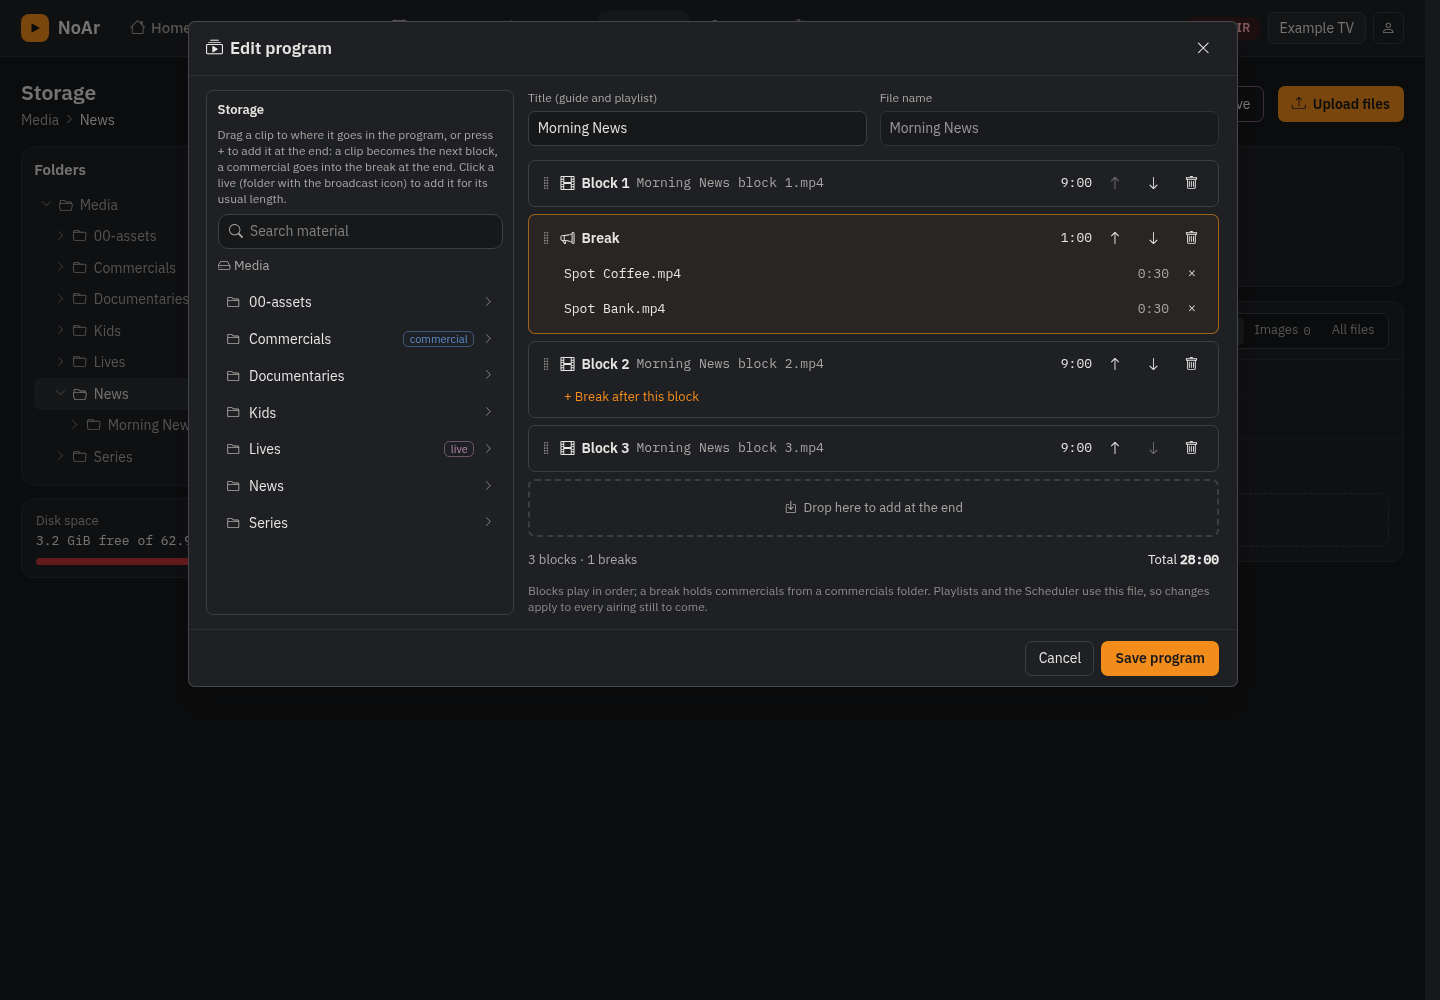
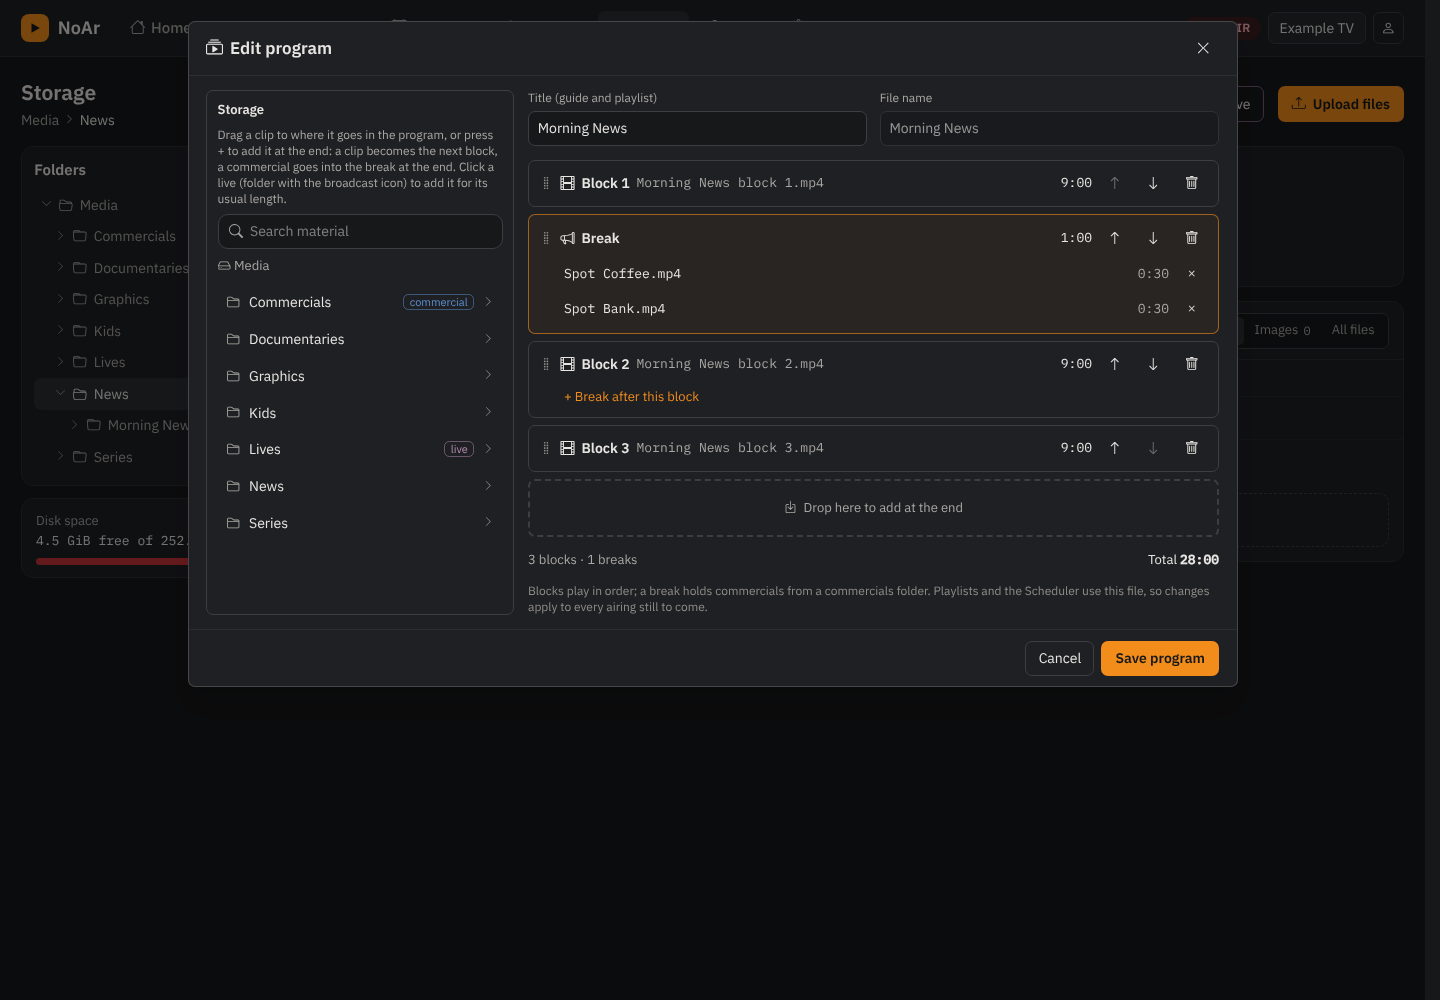
Refresh the README screenshots and screen descriptions
Recapture the 14 gallery screens from the current interface. The demo
keeps its logo in the Graphics folder and marks graphics cues in the
Oceans video, so the marks screenshot shows the cues drawn over the
player. The README describes the On air tabs, the Scheduler agenda,
the Composer tabs and colour picker, Duplicate, animated images and the
keyed commands.

Claude-Session: https://claude.ai/code/session_01TMowBAVNii8r8QQWjMJoUz

diff --git a/qa/screenshots/build_demo.py b/qa/screenshots/build_demo.py
@@ -141,7 +141,7 @@ def build_media(storage: Path) -> dict[str, float]:
         lengths[str(clip.relative_to(storage))] = 30.0
 
     shutil.rmtree(work)
-    assets = storage / "00-assets"
+    assets = storage / "Graphics"
     assets.mkdir(exist_ok=True)
     shutil.copy(ROOT / "assets" / "logo.png", assets / "logo.png")
 
@@ -150,18 +150,6 @@ def build_media(storage: Path) -> dict[str, float]:
     (live / "signal.live").write_text("srt://127.0.0.1:19890?streamid=read:city\n")
     card(live / "poster.jpg", "City Live", "Live", ("0x7b2cbf", "0xe0aaff"), "600x900")
 
-    # A trim, two breaks edited into the programme with the logo off during
-    # them, and two L-shape stretches.
-    (storage / "Documentaries/Oceans (2024)/Oceans.marks.json").write_text(
-        json.dumps(
-            {
-                "trim": {"from": 4.0, "to": 1796.0},
-                "hide": [{"from": 600.0, "to": 720.0}, {"from": 1320.0, "to": 1380.0}],
-                "breaks": [{"from": 600.0, "to": 720.0}, {"from": 1320.0, "to": 1380.0}],
-                "lshape": [{"from": 300.0, "to": 420.0}, {"from": 1020.0, "to": 1140.0}],
-            }
-        )
-    )
     return lengths
 
 
@@ -232,7 +220,7 @@ def graphics(api: Api) -> dict[str, int]:
     logo = next(item["template"] for item in api.call("GET", "/api/graphics/1/channel")
                 if item["kind"] == "logo")
     logo.update(name="Example TV logo", group="Channel", always_on=True)
-    logo["layers"][0].update(image="00-assets/logo.png", x=90, y=4, width=8, height=14.222222,
+    logo["layers"][0].update(image="Graphics/logo.png", x=90, y=4, width=8, height=14.222222,
                              opacity=0.9, animation_in="fade", animation_out="fade", animation_ms=400)
     api.call("PUT", f"/api/graphics/1/templates/{logo['id']}", logo)
     api.call("POST", f"/api/graphics/1/channel/{logo['id']}", {"on": True})
@@ -259,7 +247,7 @@ def graphics(api: Api) -> dict[str, int]:
     lower_third = model("Presenter", "Programmes", [
         layer("nameplate", "box", 5, 74, 75, 21, fill="#14213d", radius=1.2, shape="rounded"),
         layer("accent", "box", 5, 74, 1, 21, fill="#f28c18"),
-        layer("programme-image", "image", 7, 78, 8, 14, image="00-assets/logo.png"),
+        layer("programme-image", "image", 7, 78, 8, 14, image="Graphics/logo.png"),
         layer("presenter-name", "text", 18, 77, 59, 8, text="{name}", font_size=5.5, bold=True),
         layer("presenter-role", "text", 18, 86, 59, 6, text="{role}", font_size=3.4, color="#e7e9ed"),
     ])
@@ -356,6 +344,21 @@ def main() -> None:
     config["recording"]["enable"] = False
     api.call("PUT", "/api/playout/config/1", config)
     models = graphics(api)
+    # A trim, two breaks edited into the programme and graphics cues: the
+    # market update on air for a while, the presenter until taken off.
+    (storage / "Documentaries/Oceans (2024)/Oceans.marks.json").write_text(
+        json.dumps(
+            {
+                "trim": {"from": 4.0, "to": 1796.0},
+                "breaks": [{"from": 600.0, "to": 720.0}, {"from": 1320.0, "to": 1380.0}],
+                "graphics": [
+                    {"at": 300.0, "action": "take", "template_id": models["market"], "duration": 20.0},
+                    {"at": 900.0, "action": "take", "template_id": models["presenter"]},
+                    {"at": 960.0, "action": "out", "template_id": models["presenter"]},
+                ],
+            }
+        )
+    )
 
     playlist(api, storage, lengths, config["playlist"]["day_start"])
 

diff --git a/README.md b/README.md
@@ -108,8 +108,13 @@ artwork, and the Report for what aired.
   until taken off) and take it off, from On air, from cues marked inside a
   video, from the Scheduler, or from an encoder, vMix, OBS or a Stream Deck
   with the graphics key ([docs](docs/logo.md)).
-- On air offers a template preview, a real program monitor, put on air / take
-  off, and the logo and ticker switches. Edit layers in Composer.
+- On air offers a template preview, a real program monitor and put on air /
+  take off, with the templates, the graphics on air and the always-on ones in
+  three tabs. Edit layers in Composer, or duplicate a template to start from it.
+- **Animated GIF and WebP** images play on air; a very long animation plays
+  one frame in two (or four, …) instead of being refused.
+- **Keyed commands** for encoders and Stream Decks: list what is on air, take
+  one template off, or take everything off except the templates you name.
 - **WebVTT subtitles** in the HLS output ([docs](docs/closed_captions.md)).
 
 **Storage**
@@ -124,9 +129,9 @@ artwork, and the Report for what aired.
 - **Downloads**: save a stored video, image or sidecar file to your computer
   from its row, image card or viewer. WebVTT subtitle files can be uploaded
   beside their videos ([docs](docs/storage.md)).
-- **Marks in a video**: its trim, stretches without logo, ad breaks and
-  L-shape stretches on one timeline, played back as they air, plus where the
-  logo goes and the L-shape's graphic, corner and size for that video.
+- **Marks in a video**: its trim, ad breaks and graphics cues on one
+  timeline, played back as they air, with each template drawn over the video
+  with its entry and exit animations.
 - **Commercials folders**: mark a folder once and everything in it plays as a
   commercial: out of the guide and without the logo
   ([docs](docs/commercials.md)).
@@ -171,7 +176,8 @@ The [screenshot guide](qa/screenshots/README.md) rebuilds and verifies the galle
 
 **Scheduler**: the day's programme with each clip at its real length, a
 scheduled break and a live on the events lane, and a Composer template scheduled
-on its own graphics lane, with the lists below.
+on its own graphics lane. Below it, one list of the day's events, filtered by
+all, materials, lives or graphics.
 
 ![Scheduler](docs/images/scheduler.png)
 
@@ -197,26 +203,33 @@ the videos you pick, at the end, after the selection or at a time.
 
 ![Adding a program folder](docs/images/program-folder.png)
 
-**Marks in a video**: the trim, the logo, the SCTE-35 breaks and the L-shape
-on one timeline; here a break edited into the programme, where it leaves and
-comes back, next to where the logo goes off.
+**Marks in a video**: the trim, the SCTE-35 breaks and the graphics cues on
+one timeline. Here, the graphics cues: a market update on air for 20 seconds and
+a presenter put on and taken off. The player previews each template over the
+video, with its entry and exit animations.
 
 ![Marks in a video](docs/images/marks.png)
 
 **Graphics › Templates**: custom groups, thumbnails on a neutral transparency
 checkerboard and controls appropriate to each model's assignment. Edit opens
-Composer; scroll or filter groups to see the other templates.
+Composer and Duplicate copies a template to change it; scroll or filter groups
+to see the other templates.
 
 ![Graphics templates in dark mode](docs/images/graphics.png)
 
 **Composer**: image, shape and text layers, named fields, resize handles,
 percent/pixel geometry, font upload, animation timing and editor safety margins.
-The shared checkerboard gains an alignment grid in the editor.
+Layers are reordered by dragging and renamed in the list; the layer's settings
+are split into Position, Content, Style, Animation and Template tabs, with a
+colour picker for every colour. The shared checkerboard gains an alignment grid
+in the editor.
 
 ![Composer in dark mode](docs/images/composer.png)
 
 **Graphics › On air**: fill the presenter fields on the preview, compare them
-with the real program monitor, take graphics in/out and control always-on models.
+with the real program monitor and take graphics in/out. The right column has
+three tabs: Templates, with search and a group filter; On air, the temporary
+graphics with their time left; and Always on air, the permanent ones.
 Preview uses the same checkerboard as Templates; Program shows the actual video.
 
 ![Graphics On air in dark mode](docs/images/onair.png)
